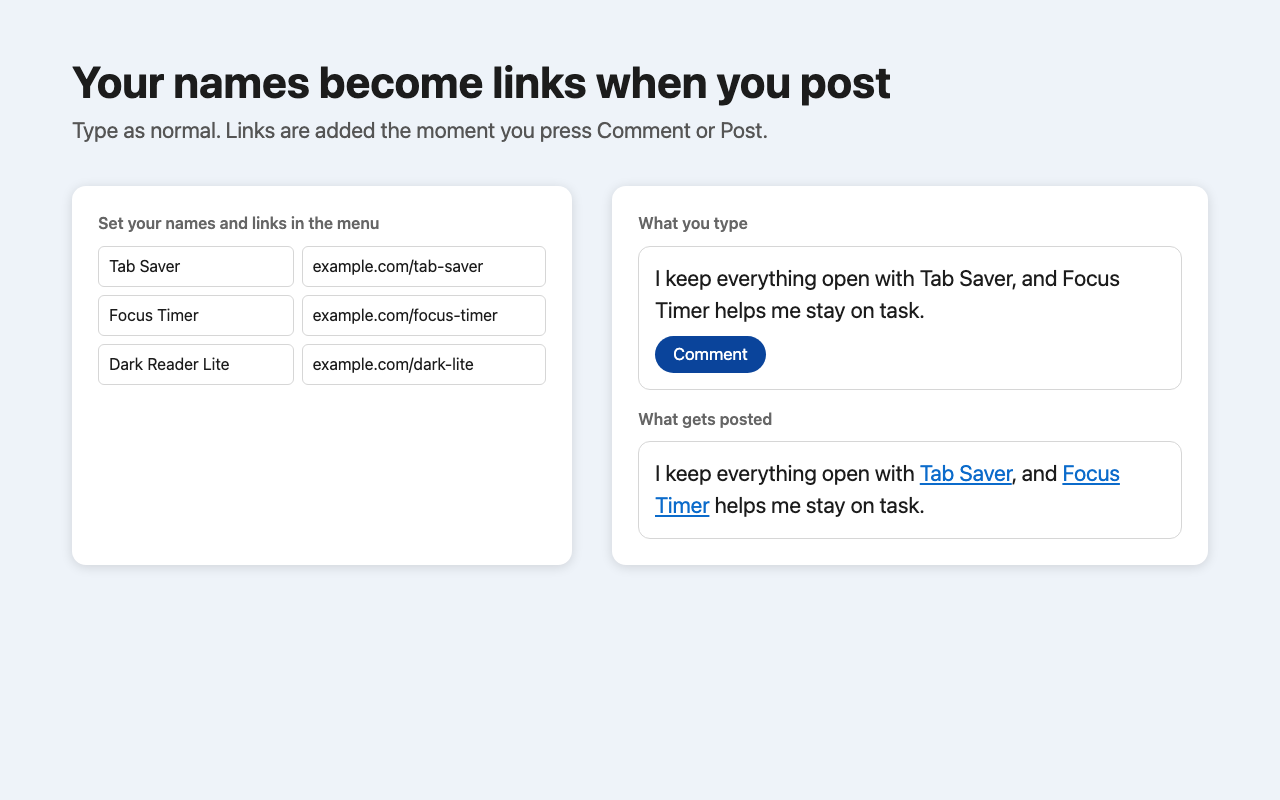
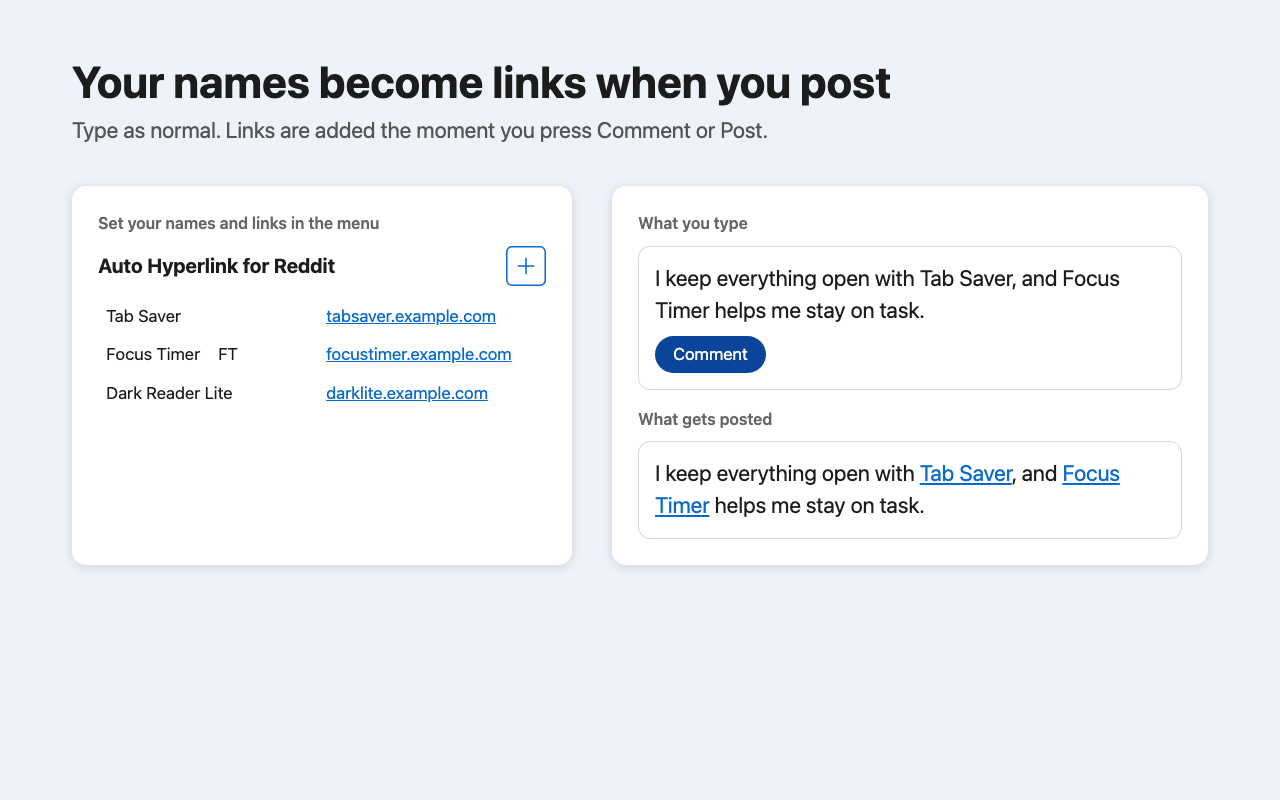
Store screenshot matches the current menu; full stop on a menu note

diff --git a/store/screenshot.html b/store/screenshot.html
@@ -6,8 +6,13 @@
   .cols { display: grid; grid-template-columns: 500px 1fr; gap: 40px; }
   .card { background: #fff; border-radius: 14px; padding: 26px; box-shadow: 0 2px 12px #0002; }
   .tag { font-size: 16px; font-weight: 600; color: #666; margin-bottom: 10px; }
-  .row { display: grid; grid-template-columns: 1fr 1.25fr; gap: 8px; margin-bottom: 8px; }
-  .in { border: 1px solid #d6d6d6; border-radius: 6px; padding: 8px 10px; font-size: 16px; overflow: hidden; white-space: nowrap; }
+  /* The menu's own look: names as plain text beside the link's site, under its title and + button. */
+  .head { display: flex; align-items: center; justify-content: space-between; margin-bottom: 18px; }
+  .head b { font-size: 20px; }
+  .add { width: 40px; height: 40px; }
+  .add svg { display: block; fill: none; stroke: #0b6bcb; stroke-width: 1.3; }
+  .row { display: grid; grid-template-columns: 1fr 1fr; align-items: center; gap: 8px; margin-bottom: 14px; font-size: 17px; }
+  .names { display: flex; flex-wrap: wrap; gap: 4px 18px; padding-left: 8px; }
   .box { border: 1px solid #d6d6d6; border-radius: 12px; padding: 16px; margin-bottom: 18px; }
   a { color: #0b6bcb; } .btn { display: inline-block; background: #0a449b; color: #fff; border-radius: 99px; padding: 6px 18px; font-size: 17px; margin-top: 10px; }
 </style>
@@ -15,9 +20,10 @@
 <p class="sub">Type as normal. Links are added the moment you press Comment or Post.</p>
 <div class="cols">
   <div class="card"><div class="tag">Set your names and links in the menu</div>
-    <div class="row"><div class="in">Tab Saver</div><div class="in">example.com/tab-saver</div></div>
-    <div class="row"><div class="in">Focus Timer</div><div class="in">example.com/focus-timer</div></div>
-    <div class="row"><div class="in">Dark Reader Lite</div><div class="in">example.com/dark-lite</div></div>
+    <div class="head"><b>Auto Hyperlink for Reddit</b><div class="add"><svg width="40" height="40" viewBox="0 0 34 34"><rect x="0.65" y="0.65" width="32.7" height="32.7" rx="4.35"/><path d="M17 10v14M10 17h14"/></svg></div></div>
+    <div class="row"><div class="names"><span>Tab Saver</span></div><a href="#">tabsaver.example.com</a></div>
+    <div class="row"><div class="names"><span>Focus Timer</span><span>FT</span></div><a href="#">focustimer.example.com</a></div>
+    <div class="row"><div class="names"><span>Dark Reader Lite</span></div><a href="#">darklite.example.com</a></div>
   </div>
   <div class="card">
     <div class="tag">What you type</div>

diff --git a/popup.html b/popup.html
@@ -57,7 +57,7 @@
   <p id="status" role="status"></p>
   <ul class="note">
     <li>Runs when you post, comment or edit.</li>
-    <li>First mention linked only</li>
+    <li>First mention linked only.</li>
     <li>If link is already in post or comment, it won't add to any other words/phrases from the list.</li>
     <li>New entries apply to open/loaded tabs as well.</li>
     <li class="backup"><button id="backup" type="button">Back up</button> and <button id="restore" type="button">restore</button><input id="file" type="file" accept=".json,application/json" hidden></li>
